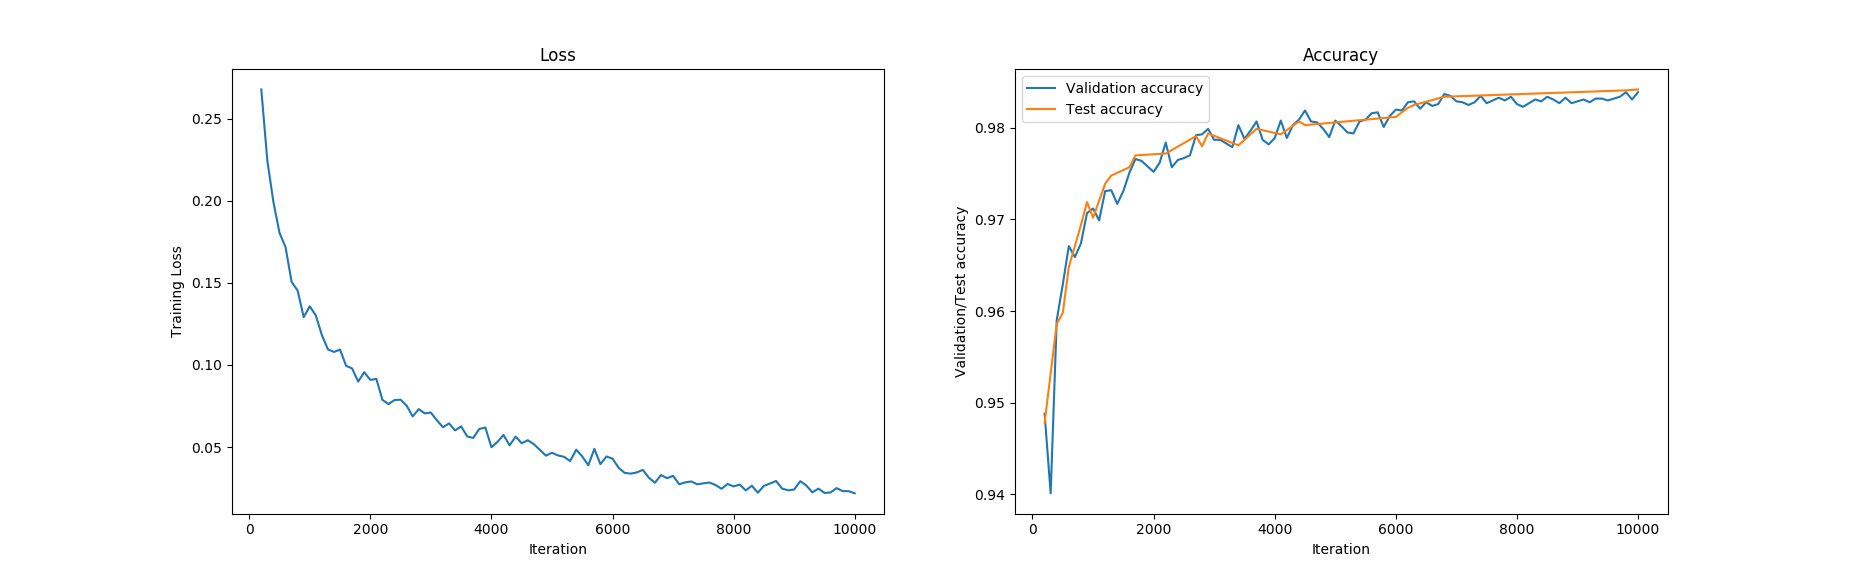
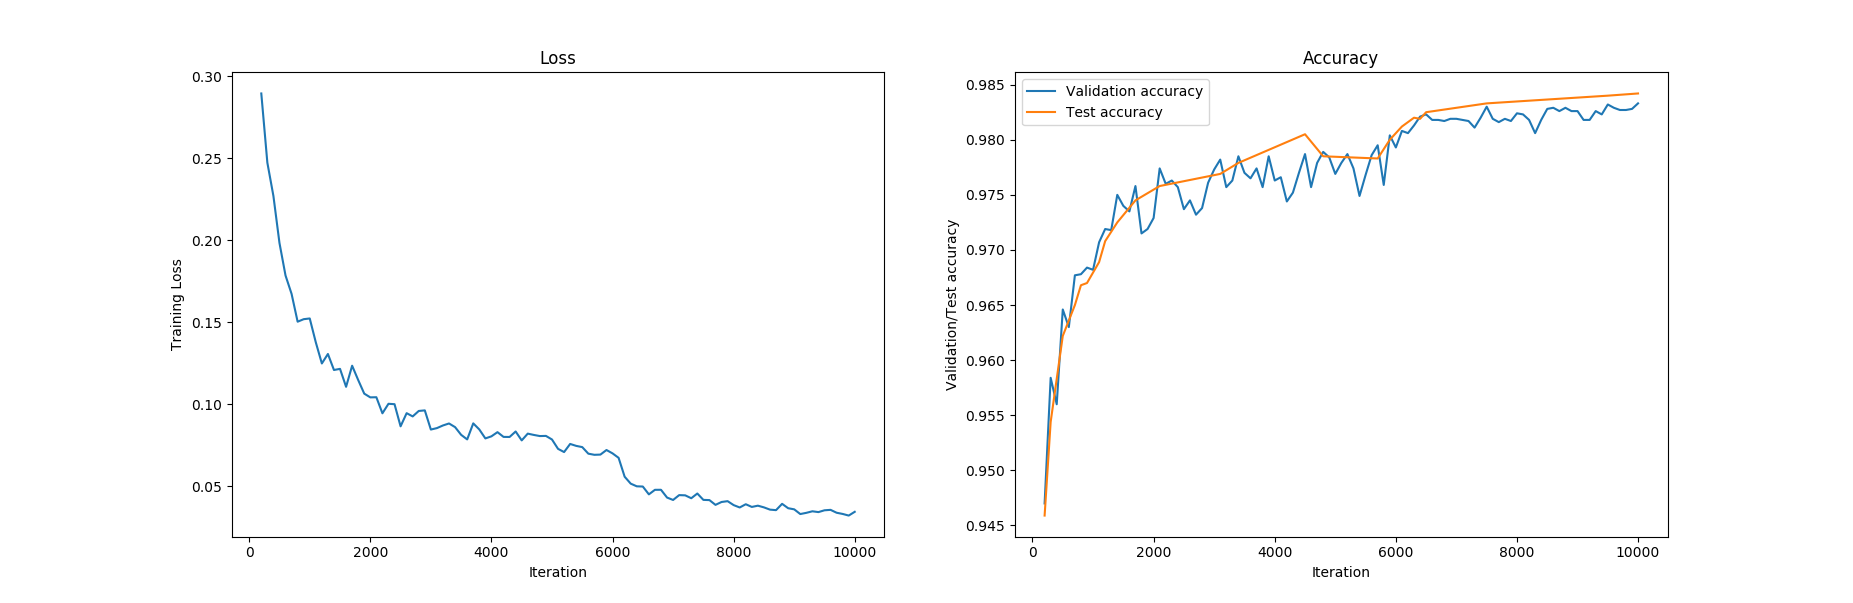
support l2 regularization

diff --git a/model/network.py b/model/network.py
@@ -5,7 +5,7 @@ import numpy as np
 
 class Network(object):
 
-    def __init__(self, learning_rate, num_iter, batch_size, lr_decay=None):
+    def __init__(self, learning_rate, num_iter, batch_size, lr_decay=None, l2_reg=None):
         self.layers = []
         self.lr = learning_rate
         self.num_iter = num_iter
@@ -16,19 +16,25 @@ class Network(object):
         if lr_decay:
             self.lr_decay_iter = lr_decay[1:]
             self.lr_decay_rate = lr_decay[0]
+        self.l2_reg = l2_reg
 
 
     def add_layer(self, layer):
+        if self.l2_reg and (layer.layer == 'loss' or layer.layer == 'linear'):
+            layer.l2_reg = self.l2_reg
         self.layers.append(layer)
 
     def forward(self, x, labels):
-        temp = x
+        if self.l2_reg:
+            temp = x, []
+        else:
+            temp = x, None
         loss = None
         for layer in self.layers:
             if layer.layer == 'loss':
-                loss = layer.forward(input=temp, labels=labels)
+                loss = layer.forward(input=temp[0], labels=labels, Ws=temp[1])
             else:
-                temp = layer.forward(input=temp)
+                temp = layer.forward(input=temp[0], Ws=temp[1])
         return loss
 
     def backward(self):
@@ -72,24 +78,31 @@ class Network(object):
         sum_loss = 0
         sum_iter = 0
         for i in range(self.num_iter):
+
+            # learning rate decay
             if self.lr_decay_rate:
                 if i in self.lr_decay_iter:
                     self.lr *= self.lr_decay_rate
 
+            # forward
             batches = np.random.choice(np.arange(self.x_tr.shape[0]), self.batch_size, True)
             x_batch, y_batch = self.x_tr[batches, :], self.y_tr[batches]
             loss = self.forward(x_batch, y_batch)
             sum_loss += loss
             sum_iter += 1
+
+            # backward
             self.backward()
 
+            # print
             if (i != 0) and (i % 100 == 0 or i == self.num_iter - 1):
                 val_iteration.append(i)
-                loss_his.append(sum_loss / sum_iter)
+                ave_loss = sum_loss / sum_iter
+                loss_his.append(ave_loss)
                 sum_loss = 0
                 sum_iter = 0
                 print('iteration:', i)
-                print('   training loss', loss)
+                print('   training loss', ave_loss)
 
                 acc = self.score(self.x_val, self.y_val)
                 val_acc.append(acc)

diff --git a/model/Layers.py b/model/Layers.py
@@ -11,13 +11,16 @@ class Linear(object):
         self.batch_size = None
         self.W = np.random.randn(self.n_in, self.n_out) / np.sqrt(self.n_in)
         self.b = np.zeros(shape=[self.n_out])
+        self.l2_reg = None
 
-    def forward(self, input):
+    def forward(self, input, Ws):
         self.input = input
         self.batch_size = self.input.shape[0]
         self.input = self.input.reshape(self.batch_size, -1)
+        if self.l2_reg:
+            Ws.append(self.W)
 
-        return np.dot(self.input, self.W) + self.b
+        return np.dot(self.input, self.W) + self.b, Ws
 
     def score(self, input):
         batch_size = input.shape[0]
@@ -28,7 +31,10 @@ class Linear(object):
     def backward(self, grad, learning_rate):
         W_grad = np.dot(self.input.T, grad)
         b_grad = np.sum(grad, axis=0)
-        self.W -= learning_rate * W_grad
+        if self.l2_reg:
+            self.W -= learning_rate * (W_grad + self.l2_reg * self.W)
+        else:
+            self.W -= learning_rate * W_grad
         self.b -= learning_rate * b_grad
 
         return np.dot(grad, self.W.T)
@@ -41,10 +47,10 @@ class Dropout(object):
         self.keep_prob = keep_prob
         self.keep = None
 
-    def forward(self, input):
+    def forward(self, input, Ws):
         self.keep = np.random.binomial(n=1, p=self.keep_prob, size=input.shape)
 
-        return self.keep * input / self.keep_prob
+        return self.keep * input / self.keep_prob, Ws
 
     def score(self, input):
         return input
@@ -65,14 +71,14 @@ class BatchNorm1d(object):
         self.gamma = np.ones(shape=[1, n_in])
         self.beta = np.zeros(shape=[1, n_in])
 
-    def forward(self, input):
+    def forward(self, input, Ws):
         self.input = input
         self.batch_size = self.input.shape[0]
         self.mu = np.mean(self.input, axis=0)
         self.var = np.var(self.input, axis=0)
         self.normalized = (self.input - self.mu) / np.sqrt(self.var + 1e-8)
 
-        return self.gamma * self.normalized + self.beta
+        return self.gamma * self.normalized + self.beta, Ws
 
     def score(self, input):
         mu = np.mean(input, axis=0)

diff --git a/model/Losses.py b/model/Losses.py
@@ -8,8 +8,9 @@ class CrossEntropyLoss(object):
         self.batch_size = None
         self.y = None
         self.p = None
+        self.l2_reg =None
 
-    def forward(self, input, labels):
+    def forward(self, input, labels, Ws):
         self.y = labels
         self.batch_size = input.shape[0]
 
@@ -17,6 +18,9 @@ class CrossEntropyLoss(object):
         normalization = np.sum(exp_score, axis=1).reshape(-1, 1)
         self.p = exp_score / normalization
         loss = - np.sum(np.log(self.p[range(self.batch_size), self.y] + 1e-8)) / self.batch_size
+        if self.l2_reg:
+            for W in Ws:
+                loss += 0.5 * self.l2_reg * np.linalg.norm(W)
         return loss
 
     def score(self, input, y):
@@ -39,8 +43,9 @@ class HingeLoss(object):
         self.batch_size = None
         self.y = None
         self.margin = None
+        self.l2_reg = None
 
-    def forward(self, input, labels):
+    def forward(self, input, labels, Ws):
         self.y = labels
         self.batch_size = input.shape[0]
 
@@ -49,6 +54,9 @@ class HingeLoss(object):
         self.margin[self.margin < 0] = 0
         self.margin[range(self.batch_size), list(self.y)] = 0
         loss = np.sum(self.margin) / self.batch_size
+        if self.l2_reg:
+            for W in Ws:
+                loss += 0.5 * self.l2_reg * np.linalg.norm(W)
         return loss
 
     def score(self, input, y):
@@ -70,12 +78,16 @@ class MSELoss(object):
         self.input = None
         self.batch_size = None
         self.y = None
+        self.l2_reg = None
 
-    def forward(self, input, labels):
+    def forward(self, input, labels, Ws):
         self.input = input
         self.batch_size = self.input.shape[0]
         self.y = labels.reshape(self.batch_size, -1)
         loss = 0.5 * np.linalg.norm(input - self.y) / self.batch_size
+        if self.l2_reg:
+            for W in Ws:
+                loss += 0.5 * self.l2_reg * np.linalg.norm(W)
         return loss
 
     def score(self, input, y):

diff --git a/model/Activations.py b/model/Activations.py
@@ -10,9 +10,9 @@ class Sigmoid(object):
     def sigmoid(self, z):
         return 1 / (1 + np.exp(-z))
 
-    def forward(self, input):
+    def forward(self, input, Ws):
         self.activation = self.sigmoid(input)
-        return self.activation
+        return self.activation, Ws
 
     def score(self, input):
         return self.sigmoid(input)
@@ -28,9 +28,9 @@ class Tanh(object):
         self.layer = 'activation'
         self.activation = None
 
-    def forward(self, input):
+    def forward(self, input, Ws):
         self.activation = np.tanh(input)
-        return self.activation
+        return self.activation, Ws
 
     def score(self, input):
         return np.tanh(input)
@@ -49,9 +49,9 @@ class ReLU(object):
     def relu(self, z):
         return np.maximum(0, z)
 
-    def forward(self, input):
+    def forward(self, input, Ws):
         self.input = input
-        return self.relu(self.input)
+        return self.relu(self.input), Ws
 
     def score(self, input):
         return self.relu(input)

diff --git a/main_mnist.py b/main_mnist.py
@@ -5,9 +5,10 @@ learning_rate = 0.2
 num_iter = 10000
 batch_size = 128
 lr_decay = [0.2, 6000]
+l2_reg = 0.001
 
 # network
-net = network.Network(learning_rate=learning_rate, num_iter=num_iter, batch_size=batch_size, lr_decay=lr_decay)
+net = network.Network(learning_rate=learning_rate, num_iter=num_iter, batch_size=batch_size, lr_decay=lr_decay, l2_reg=l2_reg)
 
 # layers
 net.add_layer(Layers.Linear(n_in=28 * 28 * 1, n_out=1024))

diff --git a/main_cifar10.py b/main_cifar10.py
@@ -5,9 +5,10 @@ learning_rate = 0.03
 num_iter = 10000
 batch_size = 128
 lr_decay = None
+l2_reg = 0.001
 
 # network
-net = network.Network(learning_rate=learning_rate, num_iter=num_iter, batch_size=batch_size, lr_decay=lr_decay)
+net = network.Network(learning_rate=learning_rate, num_iter=num_iter, batch_size=batch_size, lr_decay=lr_decay, l2_reg=l2_reg)
 
 # layers
 net.add_layer(Layers.Linear(n_in=32 * 32 * 3, n_out=1024))

diff --git a/README.md b/README.md
@@ -3,7 +3,7 @@ NumLayers
 
 A Deep Learning Library Written in NumPy
 ----
-- A personal project for fun <br><br>
+- A personal project for fun and for the purpose of learning <br><br>
 - Author: Wenlin Chen <br>
 - E-mail: chen.wenlin@outlook.com <br><br>
 18th December, 2018 <br><br>
@@ -32,6 +32,7 @@ Activation Functions<br>
 
 Training Tools<br>
 - Learning Rate Decay<br><br>
+- L2 Regularization
 
 
 Datasets
